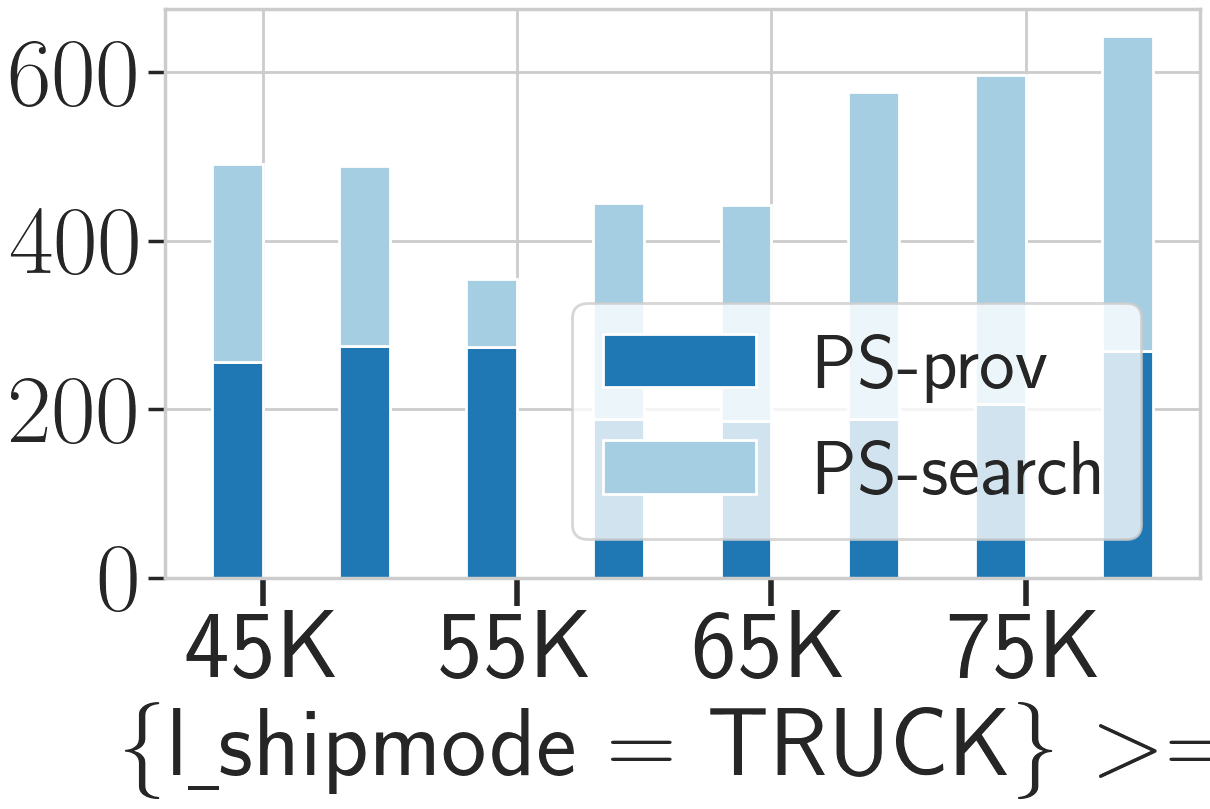
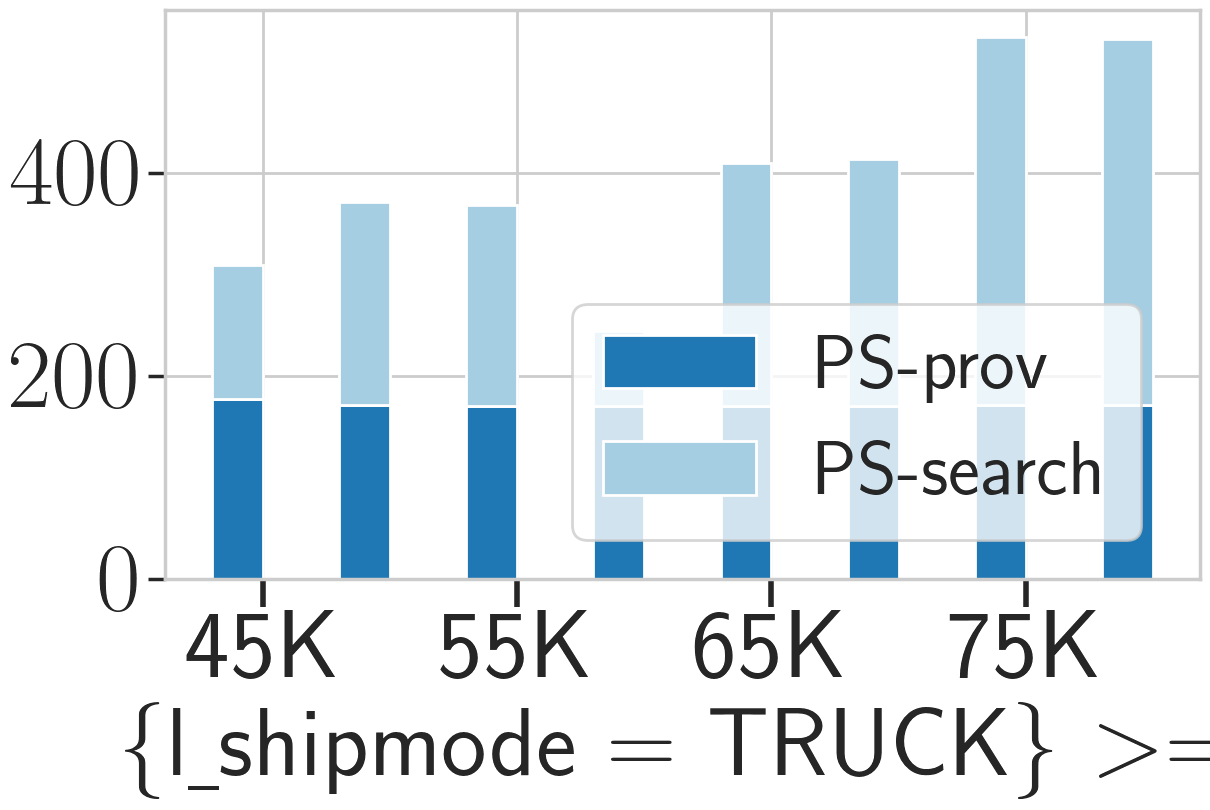
10G q3 refine

diff --git a/Experiment/TPCH/10G/constraint_change/q3_refine/constraint_change_q3_refine.py b/Experiment/TPCH/10G/constraint_change/q3_refine/constraint_change_q3_refine.py
@@ -41,7 +41,7 @@ def run_constraint(q, c):
     result_output = open(result_output_file, "w")
     result_output.write("selection file, result\n")
 
-    for i in range(0, 2):
+    for i in range(0, 9):
         print("constraint {}\n".format(i))
         constraint_file = r"./constraint_" + c + str(i) + ".json"
         print("========================== provenance search ===================================")
